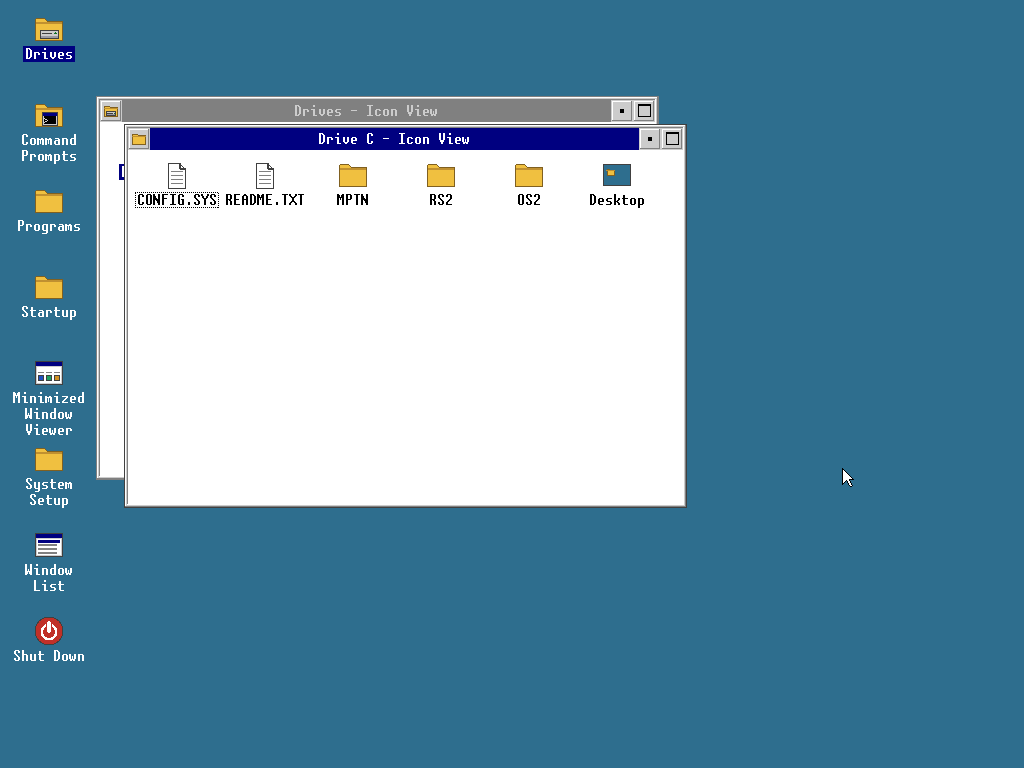
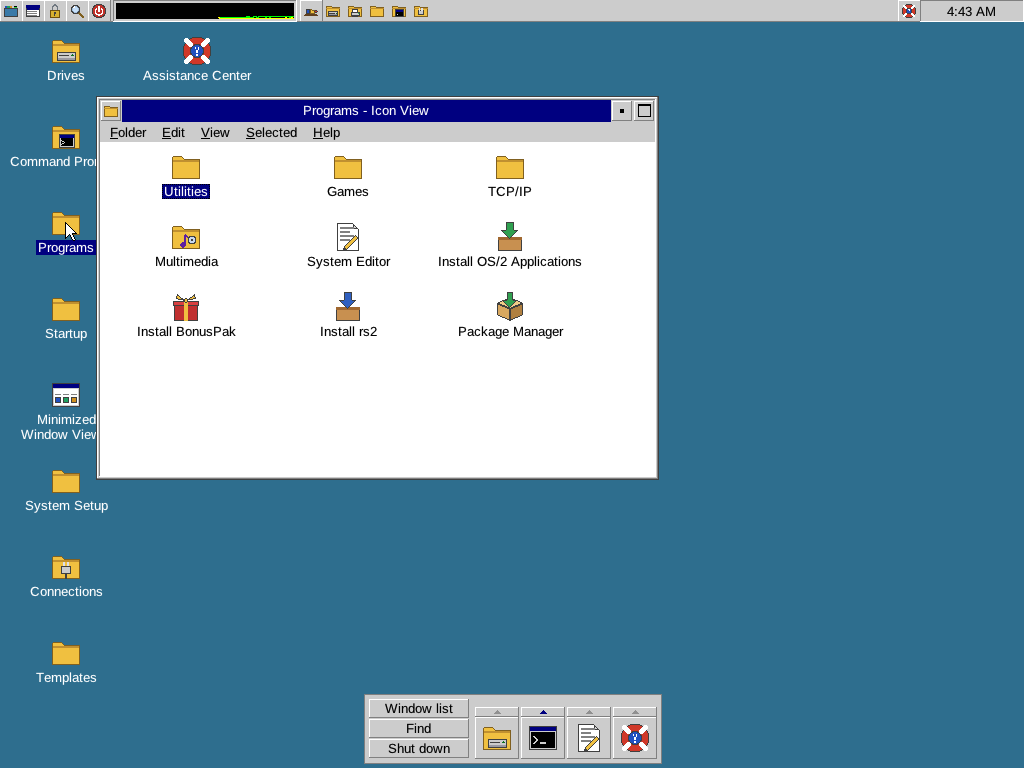
README: current screenshots of the live ISO's desktop, and its current size

diff --git a/README.md b/README.md
@@ -37,9 +37,9 @@ programs unmodified, natively, on 64-bit PCs.
 - Its own user space written in Rust and packed into genuine LX files:
   command interpreter, base utilities, installer.
 
-![The rs2 live system: the command interpreter running ver and dir](docs/images/rs2-shell.png)
+![The rs2 live system: the Workplace Shell desktop with the Programs folder and an OS/2 window running ver and dir](docs/images/rs2-live.png)
 
-*The live ISO booted in QEMU.*
+*The live ISO booted in QEMU: the Workplace Shell, the WarpCenter (top) and the LaunchPad (bottom), all rs2's own.*
 
 ![The OS/2 Toolkit's PM hello sample running on rs2's own PMWIN.DLL](docs/images/rs2-pm-hello.png)
 
@@ -120,7 +120,7 @@ cargo xtask iso --dist --release -o rs2.iso
 
 This builds everything in release mode (loader, kernel, the OS/2
 programs and DLLs listed in `dist/manifest.txt`) and writes `rs2.iso`,
-about 22 MB. Without `-o` it goes to `work/rs2.iso`. The first build
+about 66 MB. Without `-o` it goes to `work/rs2.iso`. The first build
 takes a few minutes; later ones only rebuild what changed.
 
 The image is a hybrid: attach it to a virtual machine as a CD (see
@@ -182,9 +182,9 @@ programs are tested.
 
 ## Using the desktop
 
-![The rs2 desktop (the Workplace Shell): Drives and Drive C open](docs/images/rs2-desktop.png)
+![The rs2 desktop (the Workplace Shell): the Programs folder open](docs/images/rs2-desktop.png)
 
-*The live ISO's desktop (the Workplace Shell) with Drives and Drive C open.*
+*The live ISO's desktop (the Workplace Shell) with the Programs folder open.*
 
 Text is drawn anti-aliased in the Liberation fonts (rs2 has its own
 TrueType and Type 1 renderer); installing "OS/2 fonts" with APPINST
